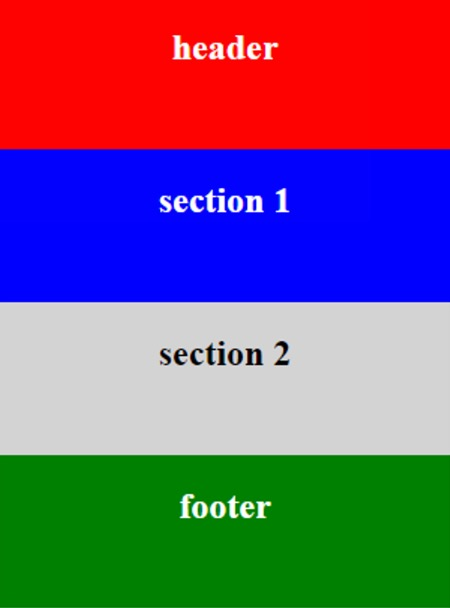
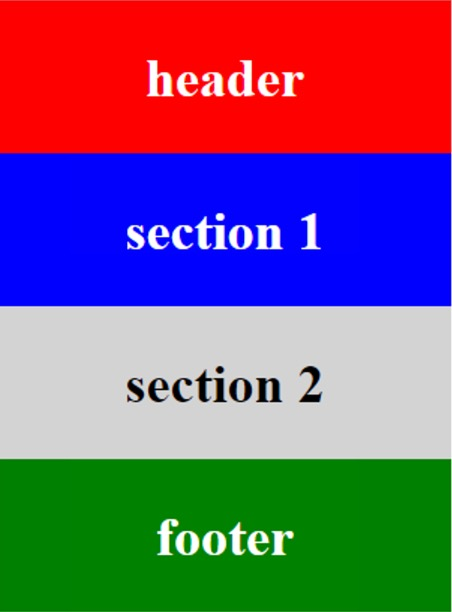
afternoon changes

diff --git a/2_BasicLargeBlocks/index.css b/2_BasicLargeBlocks/index.css
@@ -23,21 +23,21 @@ body {
     border: 1px red solid;
     background: red;
     color: white;
+    font-size: 1.5rem;
     top: 0px;
     left: 0px;
-    height: 90px;
+    height: 10%; /*was 100px*/
     width: 100%; /*was 300px*/
     text-align: center;
     position: relative;
-    font-size: x-large;
 }
 
 .section1 {
     border: 1px blue solid;
     background: blue;
-    font-size: x-large;
+    font-size: 1.5rem;
     left: 0px;
-    height: 370px;
+    height: 40%; /*was 100px*/
     width: 100%; /*was 300px*/
     color: white;
     text-align: center;
@@ -49,10 +49,10 @@ body {
 .section2 {
     border: 1px lightgray solid;
     background: lightgray;
-    font-size: x-large;
+    font-size: 1.5rem;
     left: 0px;
-    height: 370px;
-    width: 100%;  /*was 300px*/
+    height: 40%; /*was 100px*/
+    width: 100%; /*was 300px*/
     color: black;
     text-align: center;
     position: relative;
@@ -61,27 +61,15 @@ body {
 .footer {
     border: 1px green solid;
     background: green;
-    font-size: x-large;
-    left: 0px;
-    height: 90px;
-    width: 100%; /*was 300px*/
+    font-size: 1.5rem;
     color: white;
+    height: 10%; /*was 100px*/
+    width: 100%; /*was 300px*/
     text-align: center;
     position: relative;
 }
 
-.descriptive-text {
-    font-size: 40px;
-    color: red;
-    text-align: center;
-    padding-top: 0px;
-    margin: 50px 0 0 0;
-}
 
-.descriptive-text a:hover,
-.descriptive-text a:active {
-  color: green;
-} 
 
 
 

diff --git a/1_BasicBlocks/index.css b/1_BasicBlocks/index.css
@@ -14,6 +14,7 @@ body {
 .header {
     border: 1px solid red;
     background: red;
+    font-size: 1.5rem;
     color: white;
     width: 300px;
     height: 100px;
@@ -23,6 +24,7 @@ body {
 .section1 {
     border: 1px solid blue;
     background: blue;
+    font-size: 1.5rem;
     color: white;
     width: 300px;
     height: 100px;
@@ -32,6 +34,7 @@ body {
 .section2 {
     border: 1px solid lightgray;
     background: lightgray;
+    font-size: 1.5rem;
     color: black;
     width: 300px;
     height: 100px;
@@ -41,19 +44,9 @@ body {
 .footer {
     border: 1px solid green;
     background: green;
+    font-size: 1.5rem;
     color: white;
     width: 300px;
     height: 100px;
     position: relative;
 }
-
-.descriptive-text {
-    font-size: 25px;
-    color: red;
-    text-align: center;
-}
-
-.descriptive-text a:hover,
-.descriptive-text a:active {
-    color: green;
-} 

diff --git a/docs/BasicTraining.md b/docs/BasicTraining.md
@@ -15,8 +15,8 @@
 <img class="shadow-border" src="assets/images/BasicBlocksImage2.jpg">
 
 - In a folder called BasicTraining, create 2 new files.
-    - index.html
-    - index.css
+    - index.<u>html</u>
+    - index.<u>css</u>
 
 - Paste in the "favicon.gif" into the root directory.
     This will give you a nice FormR icon on the tab of your browser
@@ -77,6 +77,7 @@ body {
 .header {
     border: 1px solid red;
     background: red;
+    font-size: 1.5rem;
     color: white;
     width: 300px;
     height: 100px;
@@ -86,6 +87,7 @@ body {
 .section1 {
     border: 1px solid blue;
     background: blue;
+    font-size: 1.5rem;
     color: white;
     width: 300px;
     height: 100px;
@@ -95,6 +97,7 @@ body {
 .section2 {
     border: 1px solid lightgray;
     background: lightgray;
+    font-size: 1.5rem;
     color: black;
     width: 300px;
     height: 100px;
@@ -104,6 +107,7 @@ body {
 .footer {
     border: 1px solid green;
     background: green;
+    font-size: 1.5rem;
     color: white;
     width: 300px;
     height: 100px;
@@ -125,6 +129,8 @@ To understand this CSS code, lets look at the header css properties.
     border: 1px solid red;  places a 1 pixel red border around the block
     background: red;        makes the background red
     color: white;           makes the font color white
+    font-size: 1.5rem;      rem ensure consistency of font size and spacing           
+                            throughout your UI (1.5rem = 24px)
     width: 300px;           makes the block 300 pixels wide
     height: 100px;          makes the block 100 pixels tall
     position: relative;     places the header box relative to the html code
@@ -135,10 +141,9 @@ We will be building from this basic page to create a page with fixed header and 
 ___
 ## Basic Large Blocks
 
+Next we will add to the code in the index.<u>css</u> file to continue building on our basic web page.
 
-Next we will add to the code in the index.css file to continue building on our basic web page.
-
-### Step 1 (Body)
+### 1. Body
 
 In the .body section add::<br>
 ```css
@@ -156,12 +161,12 @@ body {
 }
 ```
 ___
-### Step 2 (Header)
+### 2. Header
 
 In the .header section change width to 100% and height to 92px...
 ```css
     width: 100%;    /*was 300px*/
-    height: 92px;   /*was 100px*/
+    height: 100%;   /*was 100px*/
 ```
 ...like this:
 ```css
@@ -170,25 +175,25 @@ In the .header section change width to 100% and height to 92px...
     background: red;
     color: white;
     width: 100%;    /*was 300px*/
-    height: 92px;   /*was 100px*/
+    height: 10%;   /*was 100px*/
     position: relative;
 }
 ```
 ___
-### Step 3 (Sections 1 & 2)
+### 3. Sections 1 & 2
 
 In section1 and section2, change the width to 100% and height to 372px:
 ```css
     width:  100%;    /*was 300px*/
-    height: 372px;   /*was 100px*/
+    height: 40%;   /*was 100px*/
 ```
 ___
-### Step 4 (Footer)
+### 4. Footer
 
 In the .footer section change width to 100% and height to 92px, like this:
 ```css
     width:  100%;    /*was 300px*/
-    height: 92px;    /*was 100px*/
+    height: 10%;    /*was 100px*/
 ```
 ___
 **Congratulation**, now look at your web page.  All the blocks now have changed to fill up the page in Chrome.
@@ -197,7 +202,7 @@ ___
 
 ___
 ## Basic Blocks With Fixed Header
-### Step 1 (index.<u>html</u>)
+### 1. index.<u>html</u>
 ___
 Header tag
 
@@ -219,7 +224,7 @@ with:
 
 this should be on line 13 in your VSCode (index.<u>html</u>).
 
-### Step 2 (index.<u>css</u>)
+### 2. index.<u>css</u>
 
 Next let's work on the index.<u>css</u> file.  We will make additions to the .header properties and create some new properties.
 
@@ -248,8 +253,9 @@ The full .header class should now look like this:
     border: 1px solid red;
     background: red;
     color: white;
+    font-size: 1.5rem;
     width: 100%;
-    height: 92px;
+    height: 10%;
     position: fixed;
     z-index: 100;
 	display: flex;
@@ -276,7 +282,6 @@ To get the logo to look good, add this code below the .header properties:
 You have a logo that is font-based.  Later we will change to an image.
 
 <img class="shadow-border" src="assets/images/BasicFixedHeaderImage5.jpg">
-
 ___
 
 To make all the blocks have their respective height and place on the page add:
@@ -316,7 +321,7 @@ at the bottom of .section1 and .section2 and .footer--it should look like this f
     }
 ```
 ___
-### Step 3 (Nav Bar)
+### 3. Nav Bar
 
 Next we will add some links and a button (a nav bar) to the header.
 
@@ -330,7 +335,7 @@ In index.<u>html</u> add the following code, just below the
             <li class="nav-list-item-cta"><a href=#>Sign In</a></li>
         </ul>
 ```
-This should start on line 14 in your VSCode.
+This should start on line 14 in your VSCode in index.<u>html</u> file.
 <img class="shadow-border" src="assets/images/BasicFixedHeaderImage6.jpg">
 
 ...to be continued
